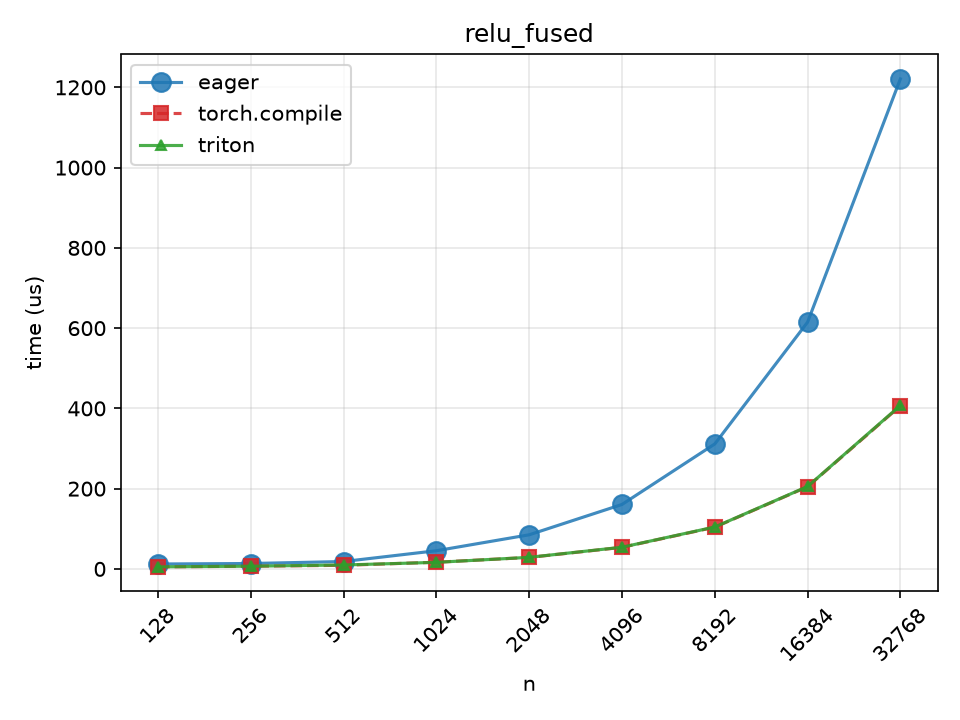
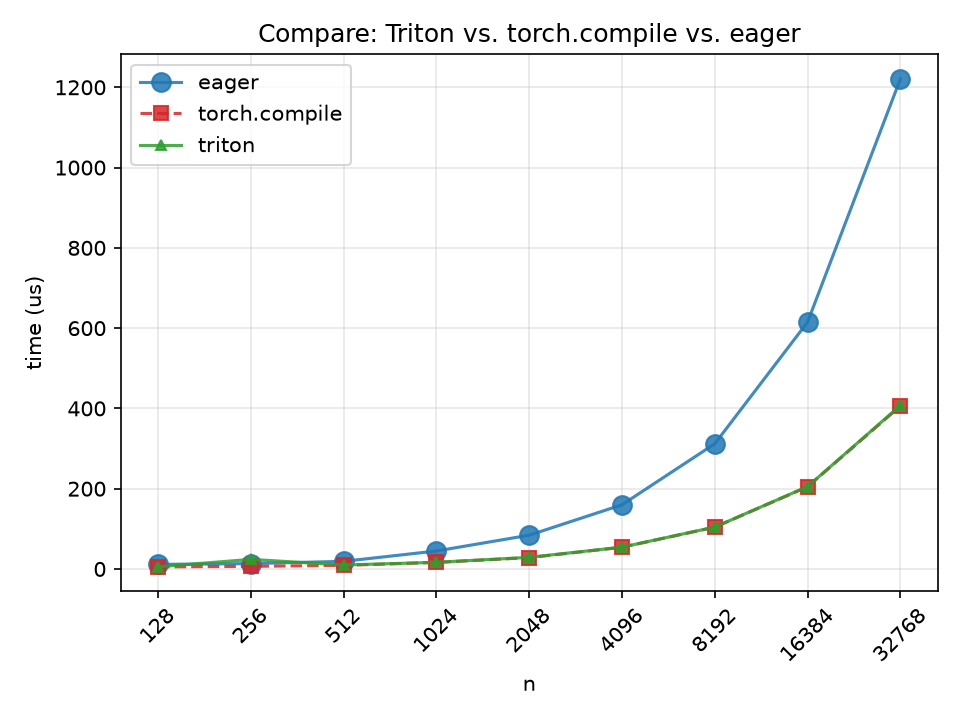
update relu_fused tutorial and benchmarks; refactor kernel parameters for improved clarity and performance

diff --git a/tutorial/3_relu_fused.py b/tutorial/3_relu_fused.py
@@ -7,11 +7,15 @@ from utils import bench_sweep
 @triton.jit
 def relu_fused_kernel(
     x_ptr,
-    x_stride,
     w_ptr,
     b_ptr,
     out_ptr,
-    out_stride,
+    stride_xn,
+    stride_xd,
+    stride_wd,
+    stride_bd,
+    stride_on,
+    stride_od,
     n,
     d,
     BLOCK_N: tl.constexpr,
@@ -26,18 +30,18 @@ def relu_fused_kernel(
     d_mask = d_offsets < d
 
     x = tl.load(
-        x_ptr + n_offsets[:, None] * x_stride[0] + d_offsets * x_stride[1],
+        x_ptr + n_offsets[:, None] * stride_xn + d_offsets * stride_xd,
         mask=n_mask[:, None] & d_mask,
     )
 
-    w = tl.load(w_ptr + d_offsets, mask=d_mask)
-    b = tl.load(b_ptr + d_offsets, mask=d_mask)
+    w = tl.load(w_ptr + d_offsets * stride_wd, mask=d_mask)
+    b = tl.load(b_ptr + d_offsets * stride_bd, mask=d_mask)
 
     y = x * w + b
     y_relu = tl.maximum(y, 0)
 
     tl.store(
-        out_ptr + n_offsets[:, None] * out_stride[0] + d_offsets * out_stride[1],
+        out_ptr + n_offsets[:, None] * stride_on + d_offsets * stride_od,
         y_relu,
         mask=n_mask[:, None] & d_mask,
     )
@@ -58,7 +62,20 @@ def relu_fused(x, w, b, BLOCK=256):
         grid = (triton.cdiv(n, BLOCK_N), 1)
 
     relu_fused_kernel[grid](
-        x, x.stride(), w, b, out, out.stride(), n, d, BLOCK_N=BLOCK_N, BLOCK_D=BLOCK_D
+        x,
+        w,
+        b,
+        out,
+        x.stride(0),
+        x.stride(1),
+        w.stride(0),
+        b.stride(0),
+        out.stride(0),
+        out.stride(1),
+        n,
+        d,
+        BLOCK_N=BLOCK_N,
+        BLOCK_D=BLOCK_D,
     )
 
     return out
@@ -89,18 +106,22 @@ if __name__ == "__main__":
             torch.randn(512, device="cuda"),
             torch.randn(512, device="cuda"),
         ),
-        name="relu_fused",
+        title="Compare: Triton vs. torch.compile vs. eager",
+        filename="relu_fused",
         xlabel="n",
     )
 
     # Benchmark over block size
-    x = torch.randn(100, 1024, device="cuda")
-    w = torch.randn(1024, device="cuda")
-    b = torch.randn(1024, device="cuda")
     bench_sweep(
         {"triton": relu_fused},
         [128, 256, 512, 1024, 2048, 4096],
-        lambda block: (x, w, b, block),
-        name="relu_fused_block",
+        lambda block: (
+            torch.randn(1000, 512, device="cuda"),
+            torch.randn(512, device="cuda"),
+            torch.randn(512, device="cuda"),
+            block,
+        ),
+        title="Compare: Triton vs. torch.compile vs. eager",
+        filename="relu_fused_block",
         xlabel="BLOCK",
     )
